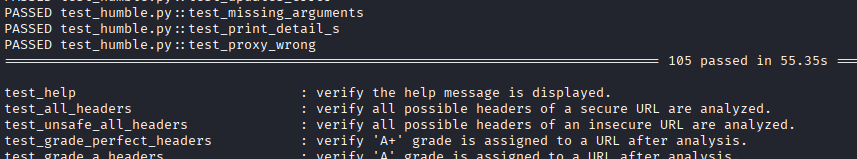
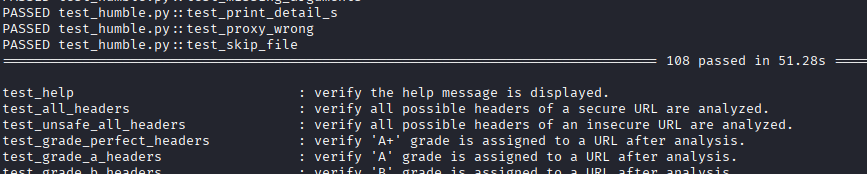
Feature: 3 new unit tests

Changed region(s): [[0.3337, 0.5031, 0.9405, 1.0], [0.0, 0.0, 1.0, 0.4277], [0.0, 0.5031, 0.2427, 1.0]]

diff --git a/tests/test_humble.py b/tests/test_humble.py
@@ -55,7 +55,7 @@ if system().lower() == "windows" and any("--cov" in arg for arg in sys.argv):
 
 ASSERT_STR = ["error", "Error"]
 EXTENDED_TAGS = ["[test_python_version]", "[test_missing_arguments]",
-                 "[test_print_detail_s]"]
+                 "[test_print_detail_s]", "[test_skip_file]"]
 HUMBLE_TESTS_DIR = Path(__file__).parent
 HUMBLE_TEMP_HISTORY = HUMBLE_TESTS_DIR / "analysis_h.txt"
 HUMBLE_TEMP_PREFIX = "humble_"
@@ -114,7 +114,7 @@ TEST_URLS = ("https://github.com/rfc-st/humble",
              "https://httpbin.org/status/529",
              "https://httpbin.org/status/520",
              "http://nonexistenturl.com", "https://httpbin.org/status/432",
-             "google.com", "https://")
+             "google.com", "https://", "https://google.com:443g")
 
 REQUIRED_PYTHON_VERSION = (3, 11)
 
@@ -165,6 +165,8 @@ TEST_CFGS = {
                            "Analysis Grade"),
     "test_detailed_analysis": (["-u", TEST_URLS[9]], "Analysis Grade:"),
     "test_export_all": (["-u", TEST_URLS[9], "-o", "all"], "Exported"),
+    "test_export_all_brief": (["-u", TEST_URLS[9], "-o", "all", "-b"],
+                              "Exported"),
     "test_export_all_responses": (["-u", TEST_URLS[9], "-o", "all", "-r"],
                                   "Exported"),
     "test_export_csv": (["-u", TEST_URLS[9], "-o", "csv"], "Analysis"),
@@ -278,6 +280,7 @@ TEST_CFGS = {
     "test_unsupported_python_version": ([], "humble"),
     "test_updates": (["-v"], "Keeping your security tools"),
     "test_updates_error": (["-v"], "error"),
+    "test_url_malformed": (["-u", TEST_URLS[21]], "Error"),
     "test_url_statistics": (["-u", TEST_URLS[5], "-if", PATHS["ALL_HEADERS"],
                              "-a"], "Empty headers"),
     "test_url_insufficient_statistics": (["-u", TEST_URLS[6], "-if",
@@ -593,6 +596,25 @@ def test_proxy_wrong():
     expected = ["Error:", "error:"]
     run_test(["-p", "https://"], expected)
     run_test(["-p", "http://127.0.0.1:test"], expected)
+
+
+def test_skip_file(tmp_path, monkeypatch):
+    """Verify 'humble.skip' parsing and the exclusion of its headers.
+
+    Uses a modified copy of the file in a temporary directory; the
+    original bundled 'humble.skip' is never modified.
+    """
+    with suppress(SystemExit):
+        _spec.loader.exec_module(humble_module)
+    humble_module.l10n_main, humble_module.args = l10n_main, args
+    monkeypatch.chdir(tmp_path)
+    assert humble_module.check_skip_file() == []
+    skip_content = (HUMBLE_PROJECT_ROOT / "humble.skip").read_text(
+        encoding="utf-8").replace("# Vary", "Vary").replace(
+        "# X-XSS-Protection", "X-XSS-Protection")
+    (tmp_path / "humble.skip").write_text(skip_content, encoding="utf-8")
+    assert humble_module.check_skip_file() == ["Vary", "X-XSS-Protection"]
+    run_test(["-u", TEST_URLS[5]], "excluded from this analysis")
 
 
 def delete_export_files(extension, ko_msg):